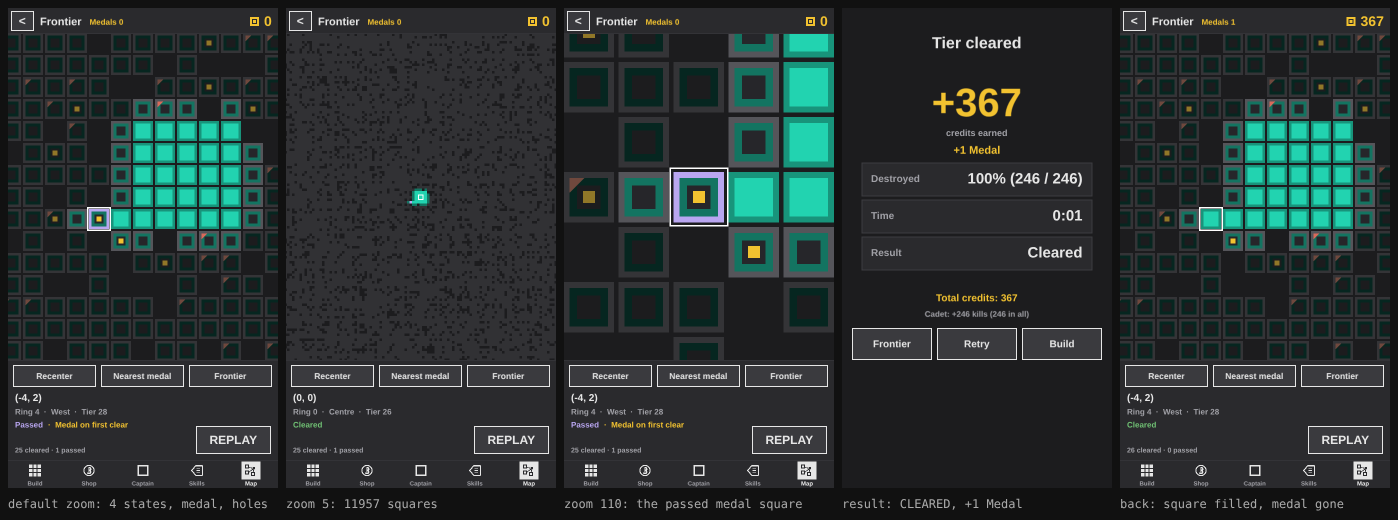
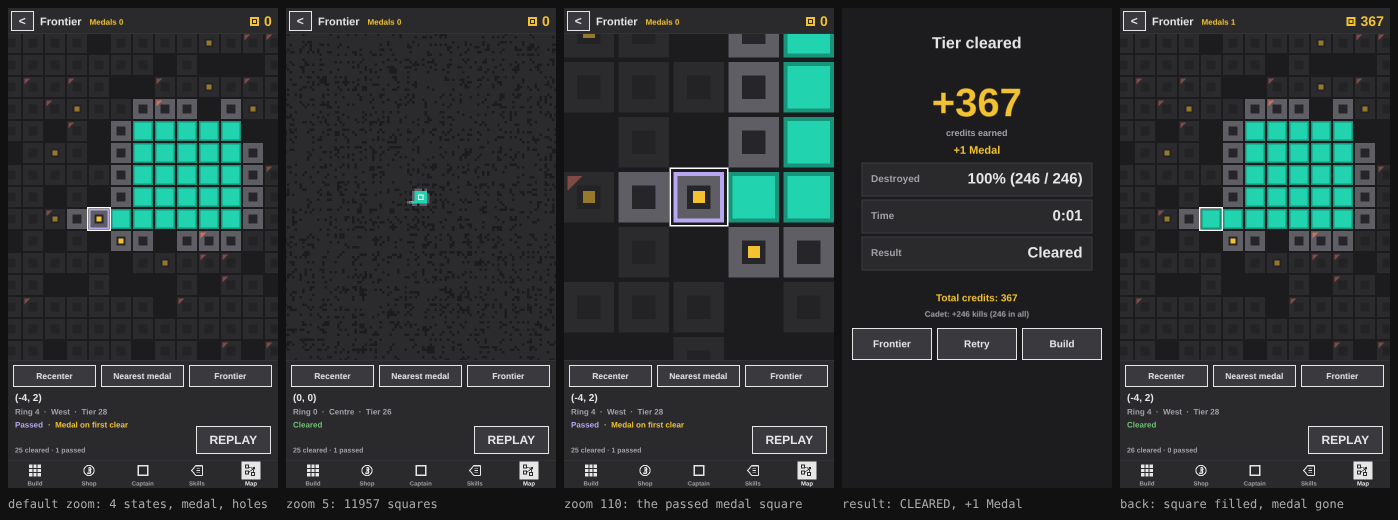
Chunk 15a-fix: neutral grey Frontier squares, TILE_STYLE plate/flat, comparison sheet
Claude-Session: https://claude.ai/code/session_011SZg4zUBf7tvgDGoPo9XdC

diff --git a/src/screens/FrontierScreen.ts b/src/screens/FrontierScreen.ts
@@ -18,7 +18,7 @@ import { fmtBig } from '../ui/format';
 import { CATEGORY_COLOR, THEME } from '../ui/theme';
 import type { StatsInfo } from '../ui/stats';
 import {
-  FAR_ZOOM, FRONTIER_NAME, MAP_UNLOCK_TIER, MEDAL_DOT_ZOOM, WHEEL_ZOOM_RATE, ZOOM_MAX, ZOOM_MIN,
+  FAR_ZOOM, FRONTIER_NAME, MAP_UNLOCK_TIER, MEDAL_DOT_ZOOM, TILE_STYLE, TileStyle, WHEEL_ZOOM_RATE, ZOOM_MAX, ZOOM_MIN,
 } from '../frontier/constants';
 import { effectiveTier, frontierLevel, isSpikeSquare, squareLevel } from '../frontier/level';
 import { frontierSession, frontierJump } from '../frontier/session';
@@ -36,11 +36,15 @@ export const FRONTIER_MAP: Rect = { x: 0, y: TOP, w: VIEW_W, h: PANEL_Y - TOP };
 const MCX = FRONTIER_MAP.x + FRONTIER_MAP.w / 2;
 const MCY = FRONTIER_MAP.y + FRONTIER_MAP.h / 2;
 
-const FRAME = 0x55555a;
-const FRAME_LOCKED = 0x343437;
+/**
+ * Neutral greys (chunk 15a-fix): colour only where it means something (cleared fill, lavender pass outline, yellow medal,
+ * red spike). Locked is just above the background (#1c1c1e) with a barely visible inner square; available is a clearly
+ * lighter plate with the dark inner square.
+ */
+const LOCKED_PLATE = 0x2b2b2e;
+const LOCKED_INNER = 0x232326;
+const AVAIL_PLATE = 0x5e5e64;
 const INNER = 0x26262a;
-const INNER_LOCKED = 0x1c1c1e;
-const FAR_LOCKED = 0x313134;
 /** Lavender outline of a passed square. */
 const PASSED = 0xb9a6f0;
 /** Cleared colour by effective-tier band of 20 tiers: the five block category colours. */
@@ -80,6 +84,8 @@ export class FrontierScreen implements Screen {
   private gestures: GestureTracker | null = null;
   private dirty = true;
   private lastViews = 0;
+  /** TILE_STYLE, switchable by the dev hook for the comparison sheet. */
+  tileStyle: TileStyle = TILE_STYLE;
   /** Explored box (stored squares and the origin, plus one): squares outside it are locked or holes, no lookups needed. */
   private box = { x0: -1, y0: -1, x1: 1, y1: 1 };
   private unsub: (() => void) | null = null;
@@ -243,31 +249,33 @@ export class FrontierScreen implements Screen {
         const v = this.view(vi++);
         drawn++;
         const medal = showMedal && st !== 'cleared' && world.hasMedal(x, y);
-        // Far locked squares are one flat grey: skip the tier roll for them (most of a far view).
-        const band = far && st === 'locked' ? 0 : bandColor(effectiveTier(x, y, seed));
-        if (far) {
-          const tint = st === 'cleared' ? band : st === 'passed' ? PASSED : st === 'available' ? shade(band, 0.55) : FAR_LOCKED;
-          place(v.frame, sx, sy, size, tint);
-          v.mid.visible = false; v.inner.visible = false; v.spike.visible = false;
+        const locked = st === 'locked';
+        // Only a cleared square is coloured: the tier roll is skipped for every other square.
+        const band = st === 'cleared' ? bandColor(effectiveTier(x, y, seed)) : 0;
+        const plateTint = st === 'cleared' ? band : locked ? LOCKED_PLATE : AVAIL_PLATE;
+        // The outer sprite: the plate itself, or the lavender outline (passed) / darker edge (cleared, plate style) around it.
+        const edge = st === 'passed' ? PASSED : st === 'cleared' && !far && this.tileStyle === 'plate' ? shade(band, 0.7) : -1;
+        v.spike.visible = false;
+        if (edge < 0) {
+          place(v.frame, sx, sy, size, plateTint);
+          v.mid.visible = false;
           used++;
         } else {
-          const locked = st === 'locked';
-          const frameTint = st === 'cleared' ? shade(band, 0.7) : st === 'passed' ? PASSED : locked ? FRAME_LOCKED : FRAME;
-          place(v.frame, sx, sy, size, frameTint);
-          const m1 = Math.max(2, Math.round(size * 0.12));
-          place(v.mid, sx + m1, sy + m1, size - 2 * m1, st === 'cleared' ? band : shade(band, locked ? 0.18 : 0.55));
+          const w = far ? Math.max(1, Math.round(size * 0.2)) : Math.max(2, Math.round(size * 0.08));
+          place(v.frame, sx, sy, size, edge);
+          place(v.mid, sx + w, sy + w, size - 2 * w, plateTint);
           used += 2;
-          if (st === 'cleared') v.inner.visible = false;
-          else {
-            const m2 = Math.round(size * 0.27);
-            place(v.inner, sx + m2, sy + m2, size - 2 * m2, locked ? INNER_LOCKED : INNER);
-            used++;
-          }
-          if (isSpikeSquare(x, y, seed)) {
-            place(v.spike, sx + m1, sy + m1, size * 0.3, THEME.bad);
-            v.spike.alpha = locked ? 0.5 : 1;
-            used++;
-          } else v.spike.visible = false;
+        }
+        if (!far && this.tileStyle === 'plate' && st !== 'cleared') {
+          const m2 = Math.round(size * 0.27);
+          place(v.inner, sx + m2, sy + m2, size - 2 * m2, locked ? LOCKED_INNER : INNER);
+          used++;
+        } else v.inner.visible = false;
+        if (!far && isSpikeSquare(x, y, seed)) {
+          const m1 = Math.max(2, Math.round(size * 0.08));
+          place(v.spike, sx + m1, sy + m1, size * 0.3, THEME.bad);
+          v.spike.alpha = locked ? 0.5 : 1;
+          used++;
         }
         if (medal) {
           const ms = Math.max(2, Math.round(size * (far ? 0.5 : 0.24)));
@@ -437,6 +445,7 @@ export class FrontierScreen implements Screen {
       pan: (dx: number, dy: number) => this.pan(dx, dy),
       zoomAt: (f: number, x: number, y: number) => this.zoomAt(f, x, y),
       play: () => this.play(),
+      setTileStyle: (t: TileStyle) => { this.tileStyle = t; this.dirty = true; },
       unlock: () => unlockFrontier(store),
       clearSquare: (x: number, y: number) => clearFrontierSquare(store, x, y),
       clearRing: (r: number) => clearFrontierRing(store, r),

diff --git a/src/frontier/constants.ts b/src/frontier/constants.ts
@@ -41,6 +41,13 @@ export const MAP_ROWS_MAX = 60;
 /** Chance a square is a spike square (1.6x HP, Ember background, as campaign spikes). */
 export const MAP_SPIKE_CHANCE = 1 / 8;
 
+/**
+ * Square look (chunk 15a-fix): 'plate' = an outer plate with a dark inner square (the block-plate shape, greys only);
+ * 'flat' = plain flat squares in the same state colours, no inner square.
+ */
+export type TileStyle = 'plate' | 'flat';
+export const TILE_STYLE: TileStyle = 'plate';
+
 /** Screen: zoom in px per square. Below FAR_ZOOM a square is one flat sprite; the medal dot shows from MEDAL_DOT_ZOOM. */
 export const ZOOM_DEFAULT = 44;
 export const ZOOM_MIN = 5;

diff --git a/DECISIONS.md b/DECISIONS.md
@@ -290,3 +290,7 @@ These replace decisions 78-82 (cylinder, camera, backdrop, leash, spawn ring) an
 227. **Baseline before this chunk (main, e2e run once from a separate checkout).** Failing on main: `blocks9a` 1 (chain lightning drew 0 arcs), `builder-extra` 4 (the crossing circuit: 0 ejectors reached and the three line-hop checks), `ring` 1 (the seam screenshot), `economy` errors out (`null.style`, as noted in 13a). Everything else passed. Note: the e2e scripts overwrite committed images in `reports/chunk9a` and `reports/chunk11a`; those were restored, not committed.
 228. **Regression run (15a).** Every existing e2e run once on the branch: no new failure. `blocks9a` fails the same chain-arc check as on main; `builder-extra` and `ring`, which failed on main, passed here (so they are flaky, not fixed); `economy` errors out as on main. Unit tests 466 passed, typecheck clean.
 229. **Not verified (15a).** No human has judged the difficulty spread (effective tier, HP 1.5% a ring, the lever ranges), how the holes and pockets look, or the touch controls (pinch was never performed: only mouse drag and wheel were driven). 60 fps was not shown (software renderer, see 226); the far zoom's 12,000-sprite render was never timed on a GPU. The e2e cleared the played square with the dev destroy-all after 1.5 s of real play, so a full human clear, a real PASS and a real crash on a square were not played in the browser (the pass and crash rules are unit-tested). The captain Medal doubling on a Frontier medal is unit-tested only. "Nearest medal" and "Frontier" buttons are unit-tested through their functions; the buttons were not tapped in the e2e. Old saves were migrated in unit tests, not by loading a real older save in the browser.
+
+## Chunk 15a-fix: Frontier look
+
+230. **Neutral squares (supersedes the look in 220).** Colour now only marks something: the cleared fill (band colour, as before), the lavender pass outline, the yellow medal, the red spike corner. Locked = plate #2b2b2e (just above the #1c1c1e background) with a barely visible inner square #232326; available = plate #5e5e64 with the dark inner square #26262a; passed = the available plate inside a lavender outline (8% of the square; 20% at far zoom so it still shows); cleared = band colour with a slightly darker edge. Measured on screen: locked 44, available 96, background / hole 29 (mean grey level), the same at the far zoom. A cleared square no longer rolls its tier for anything else, so only cleared squares pay for the band colour. `TILE_STYLE = 'plate' | 'flat'` in `src/frontier/constants.ts` (default 'plate'); 'flat' drops the inner square, same colours. Below 16 px a square is always one flat tile, so both styles look the same at the far zoom. The dev hook `setTileStyle` switches it at run time for the comparison sheet (`e2e/frontier15afix.e2e.cjs`, 18 checks by screen pixels, `reports/chunk15a/sheet_tile_styles.png`). No logic or save change. Not verified: no human has compared the two styles on a phone; the locked-vs-hole contrast (44 vs 29) is deliberately small and was only judged in headless screenshots.

diff --git a/docs/frontier-design.md b/docs/frontier-design.md
@@ -55,6 +55,7 @@ its spec exactly as before (snapshot test of tiers 1, 10, 25, 50, 100 against ha
 
 ## 6. Screen (`src/screens/FrontierScreen.ts`)
 - Entry: a "Frontier" button in the campaign Map's top bar, greyed with "Pass tier 25" until unlocked.
+- (15a-fix: locked / available / passed plates are neutral greys now, colour only on cleared squares; DECISIONS 230.)
 - Same dark grey background. A square is a small block plate. Locked: darker plate. Available: plate with the band colour
   (darkened) as the middle square. Passed: available + lavender outline. Cleared: the whole plate filled with the band
   colour. Band colour (my call): the five block category colours by effective-tier band of 20 tiers (1-20 pathing blue,
